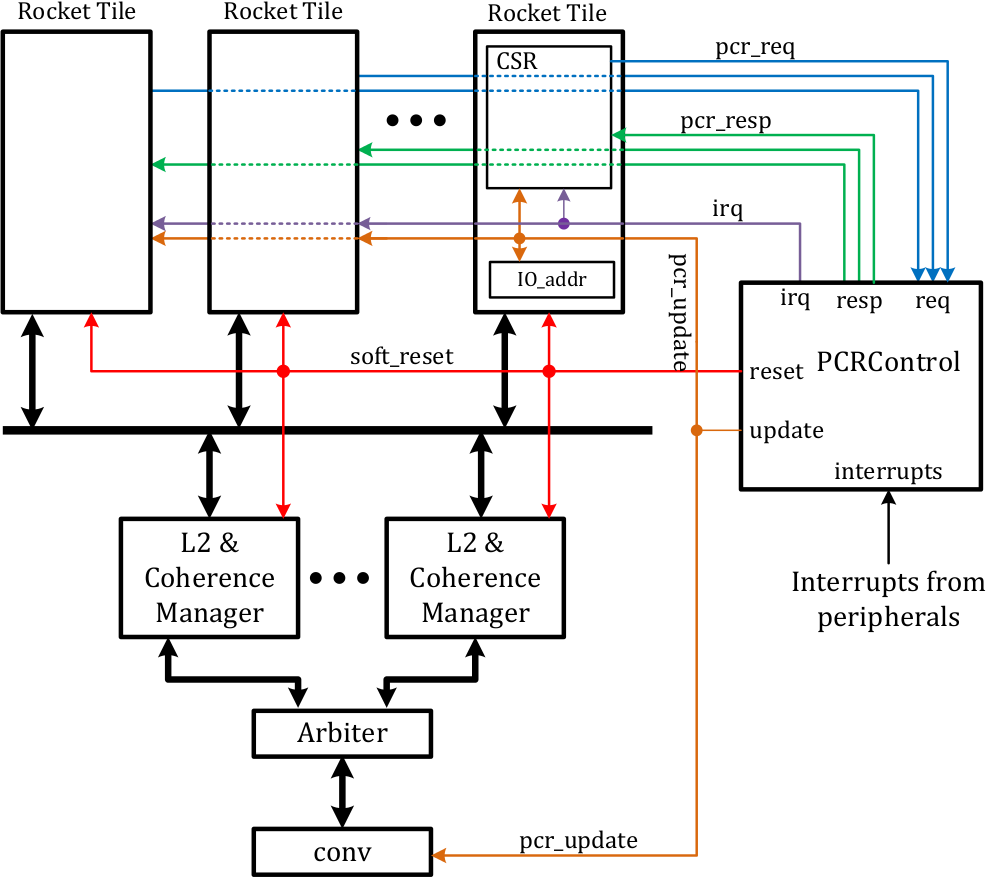
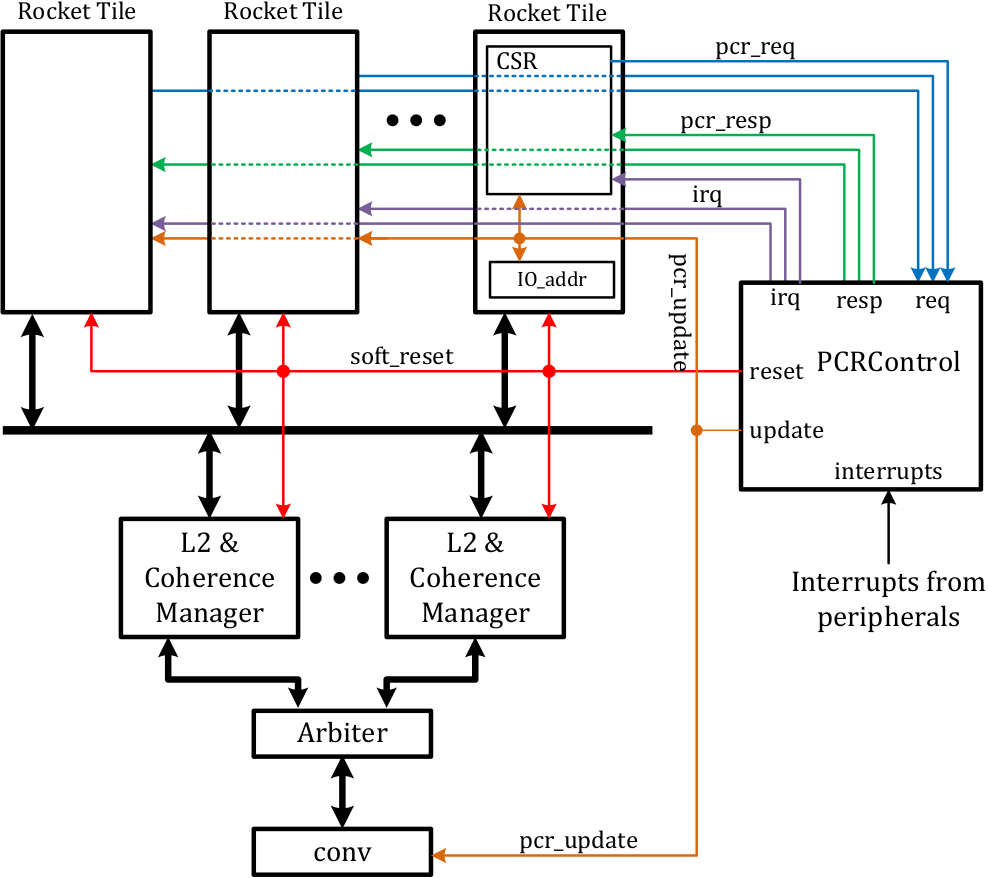
ready for proofreading and code verification

Changed region(s): [[0.4858, 0.1845, 0.8198, 0.2768], [0.3644, 0.2153, 0.4555, 0.246], [0.7895, 0.3075, 0.8198, 0.369]]

diff --git a/content/docs/untether-v0.2/pcr.md b/content/docs/untether-v0.2/pcr.md
@@ -11,6 +11,120 @@ showdisqus = true
 
 **Note: the content of this part is subject to changes due to the lack of specification.**
 
-The `untethered` Rocket chip starts to regulate the shared resources among cores, such as interrupts, memory and I/O maps, global timers, etc. A sub-set of control status register (CSR) space is defined as processor control registers (PCRs), whose values and accesses are shared by all cores and controlled a global PCR control unit (`PCRControl`).
+The `untethered` Rocket chip starts to regulate the shared resources among cores, such as interrupts, memory and I/O maps, global timers, etc. A sub-set of control status register (CSR) space is defined as processor control registers (PCRs), whose values and accesses are shared by all cores and controlled by a global PCR control unit (`PCRControl`). The connections of the PCR control units is shown below.
 
 <img src="../figures/pcr_ctl.png" alt="Drawing" style="width: 450px;"/>
+
+## Ports of `PCRControl`
+
+#### PCR read/write requests (`pcr_req`)
+
+The CSR file in each core has a dedicated request channel to the global PCR control unit. When the CSR address is identified as a PCR, the CSR request is forwarded to `PCRControl`.
+
+#### PCR read/write response (`pcr_resp`)
+
+Upon receving a request from `pcr_req`, the PCR control unit processes the request and sends back a response through the `pcr_resp` port connected to the requesting core when it is finished. When it is a read request, the PCR value is sent back in the response.
+
+#### PCR update broadcat (`pcr_update`)
+
+Operations on some PCRs trigger changes of global status, such as the change of I/O maps. In this case, the updated PCR is boardcasted to all components potentially affected by this change. In this implementation, every L1 D$ has an `IO_addr` module to identify I/O requests. To enforce the address mapping in the memory map, a memory address converter (`conv`) is added just below the memory arbiter shared by all L2 caches. All `IO_addr` modules and the memory address converter receive PCR updates to track the changes in I/O and memory maps.
+
+#### IRQ (`irq`)
+
+All core share the same interrupt sources but they can enable/disable inidividual interrupt source separately. When an interrupt arrives, it is forward to all cores who have enabled it.
+
+#### Soft reset (`soft_reset`)
+
+When a soft reset is triggered (a write to CSR `reset`), the reset signal is broadcasted to all cores and L2 caches.
+
+## Individual PCRs
+
+All PCRs are readable or writable in machine mode.
+
+| Name           | Address | Operation  | Reset value  | Description                                                        |
+| -------------- | ------- | ---------- | ------------ | ------------------------------------------------------------------ |
+| time           | `0x701` | Read Only  | 0            | Global wall clock.                                                 |
+| tohost         | `0x780` | Read/Write | 0            | Lagecy, only used in ISA regression test to identify return value. |
+| fromhost       | `0x781` | Read/Write | 0            | Lagecy, not used.                                                  |
+| reset          | `0x782` | Read/Write | 0            | When write, trigger a soft reset. Always read 0.                   |
+| mem_base0      | `0x7a0` | Read/Write | InitMemBase  | Base address of memory section 0.                                  |
+| mem_mask0      | `0x7a1` | Read/write | InitMemMask  | Address mask of memory section 0.                                  |
+| mem_phy0       | `0x7a2` | Read/Write | InitPhyBase  | Physical base address of memory section 0.                         |
+| mem_base1      | `0x7a4` | Read/Write | 0            | Base address of memory section 1.                                  |
+| mem_mask1      | `0x7a5` | Read/write | 0            | Address mask of memory section 1.                                  |
+| mem_phy1       | `0x7a6` | Read/Write | 0            | Physical base address of memory section 1.                         |
+| mem_base2      | `0x7a8` | Read/Write | 0            | Base address of memory section 2.                                  |
+| mem_mask2      | `0x7a9` | Read/write | 0            | Address mask of memory section 2.                                  |
+| mem_phy2       | `0x7aa` | Read/Write | 0            | Physical base address of memory section 2.                         |
+| mem_base3      | `0x7ac` | Read/Write | 0            | Base address of memory section 3.                                  |
+| mem_mask3      | `0x7ad` | Read/write | 0            | Address mask of memory section 3.                                  |
+| mem_phy3       | `0x7ae` | Read/Write | 0            | Physical base address of memory section 3.                         |
+| mem_update     | `0x7af` | Read/Write | 0            | when write, trigger memory map update. Always read 0.              |
+| io_base0       | `0x7b0` | Read/Write | InitIOBase   | Base address of I/O section 0.                                     |
+| io_mask0       | `0x7b1` | Read/write | InitIOMask   | Address mask of I/O section 0.                                     |
+| io_base1       | `0x7b4` | Read/Write | 0            | Base address of I/O section 1.                                     |
+| io_mask1       | `0x7b5` | Read/write | 0            | Address mask of I/O section 1.                                     |
+| io_base2       | `0x7b8` | Read/Write | 0            | Base address of I/O section 2.                                     |
+| io_mask2       | `0x7b9` | Read/write | 0            | Address mask of I/O section 2.                                     |
+| io_base3       | `0x7bc` | Read/Write | 0            | Base address of I/O section 3.                                     |
+| io_mask3       | `0x7bd` | Read/write | 0            | Address mask of I/O section 3.                                     |
+| io_update      | `0x7bf` | Read/Write | 0            | when write, trigger I/O map update. Always read 0.                 |
+| int_en0        | `0x7c0` | Read/Write | 0            | IRQ enable for core 0.                                             |
+| int_pending0   | `0x7c1` | Read Only  | N/A          | Pending IRQ for core 0.                                            |
+| int_en1        | `0x7c2` | Read/Write | 0            | IRQ enable for core 1.                                             |
+| int_pending1   | `0x7c3` | Read Only  | N/A          | Pending IRQ for core 1.                                            |
+| int_en2        | `0x7c4` | Read/Write | 0            | IRQ enable for core 2.                                             |
+| int_pending2   | `0x7c5` | Read Only  | N/A          | Pending IRQ for core 2.                                            |
+| int_en3        | `0x7c6` | Read/Write | 0            | IRQ enable for core 3.                                             |
+| int_pending3   | `0x7c7` | Read Only  | N/A          | Pending IRQ for core 3.                                            |
+| int_en4        | `0x7c8` | Read/Write | 0            | IRQ enable for core 4.                                             |
+| int_pending4   | `0x7c9` | Read Only  | N/A          | Pending IRQ for core 4.                                            |
+| int_en5        | `0x7ca` | Read/Write | 0            | IRQ enable for core 5.                                             |
+| int_pending5   | `0x7cb` | Read Only  | N/A          | Pending IRQ for core 5.                                            |
+| int_en6        | `0x7cc` | Read/Write | 0            | IRQ enable for core 6.                                             |
+| int_pending6   | `0x7cd` | Read Only  | N/A          | Pending IRQ for core 6.                                            |
+| int_en7        | `0x7ce` | Read/Write | 0            | IRQ enable for core 7.                                             |
+| int_pending7   | `0x7cf` | Read Only  | N/A          | Pending IRQ for core 7.                                            |
+
+## Time
+
+The current wall clock counts at 50MHz. The value of this wall clock is updated to all cores every 20 cycles. The wall clock is not writable.
+
+When a core read CSR `time`, an actual read to the wall clock is triggered. However, the timer comparer in each core is compared against the infrequently updated copy, which may incure a 20 cycle inaccuracy.
+
+## To/from host
+
+This pair of registers are kept for legacy reasons. They are used in the ISA regression test only for identifying the end of a test and the return value. Writing `tohost` has no effect in FPGA but writing a non-zero value to `fromhost` triggers exceptions.
+
+## Reset
+
+Write any value to `reset` will trigger a soft reset.
+
+## Memory map
+
+This implementation supports up to 4 separate memory sections. The space of sections should not be overlapped.
+
+For each section, `mem_base` defines the base address appeared to the core; `mem_mask` defines the actual size of the section; `mem_phy` defines the base address appeared to on-chip interconnects. When `mem_mask` is 0, the section is disabled (size of 0). For any address (`addr`), it belongs to a memory section if `(addr & ~mem_mask) == mem_base` is true. The translated address to on-chip interconnects is `(addr & mem_mask) | mem_phy`.
+
+The update of a memory section should be an atomic operation. To ease this requirement, any writes to memory map is buffered. The actual update to the memory map is triggered by a write to `mem_update`.
+
+## I/O map
+
+This implementation supports up to 4 separate I/O sections. The space of sections should not be overlapped.
+
+For each section, `io_base` defines the base address; `io_mask` defines the actual size of the section. When `io_mask` is 0, the section is disabled (size of 0). For any address (`addr`), it belongs to an I/O section if `(addr & ~io_mask) == io_base` is true. There is no address translation for I/O addresses.
+
+The same with the memory map, the update of an I/O section should be an atomic operation. In the same way, any writes to I/O map is buffered. The actual update is triggered by a write to `io_update`.
+
+## IRQs
+
+Up to 64 interrupt sources are supported.
+
+Every core has two PCRs: `int_en` and `int_pending`. PCR `int_en` defines which IRQ should be notified, while `int_pending` identifies all pending IRQs. The actual interrupt sources are latched in the PCR control unit. The value of `int_pending` is generated by `int_pending = interrupt & int_en`.
+
+When an IRQ is triggered, the responding core can find out the actual IRQ source by reading `int_pending`. Currently the responding core need to access the actual peripheral to serve and drop a pending IRQ. 
+
+In this implementation, interrupt bit 0 is connected to UART and bit 1 is connected to SPI.
+
+
+

diff --git a/content/docs/index.md b/content/docs/index.md
@@ -5,12 +5,23 @@ title = "Documentation"
 
 +++
 
-## Building and using the lowRISC SoC implementation
+## Untethered lowRISC tutorial
 
-The current code release builds on the Rocket RISC-V implementation to offer
+#### Release version 0.2, 12-2015
+
+A code release providing a standalone lowRISC by `untethering` the Rocket chip.
+Cores in the original Rocket chip relies on a  companion processor to access I/O devices.
+This release repalce this companion core with actual FPGA peripherals.
+A [tutorial]({{< ref "docs/untether-v0.2/index.md" >}}) explains how to use this code release and explains the underlying structural changes.
+
+## lowRISC tagged memory tutorial
+
+#### Release version 0.1, 04-2015
+
+A code release builds on the Rocket RISC-V implementation to offer
 support for tagged memory (see the [release blog post](
 {{< ref "blog/lowrisc-tagged-memory-preview-release.md" >}})). We've put together an
-[extensive tutorial]({{< ref "docs/untether-v0.2/index.md" >}}) on how to use this
+[extensive tutorial]({{< ref "docs/tagged-memory-v0.1/index.md" >}}) on how to use this
 code release as well as documenting many of the changes made.
 
 ## Memos

diff --git a/content/docs/tagged-memory-v0.1/index.md b/content/docs/tagged-memory-v0.1/index.md
@@ -8,7 +8,7 @@ showdisqus = true
 
 _By Wei Song_
 
-**Release version 0.1**
+**Release version 0.1** (04-2015)
 
 ## Introduction
 
